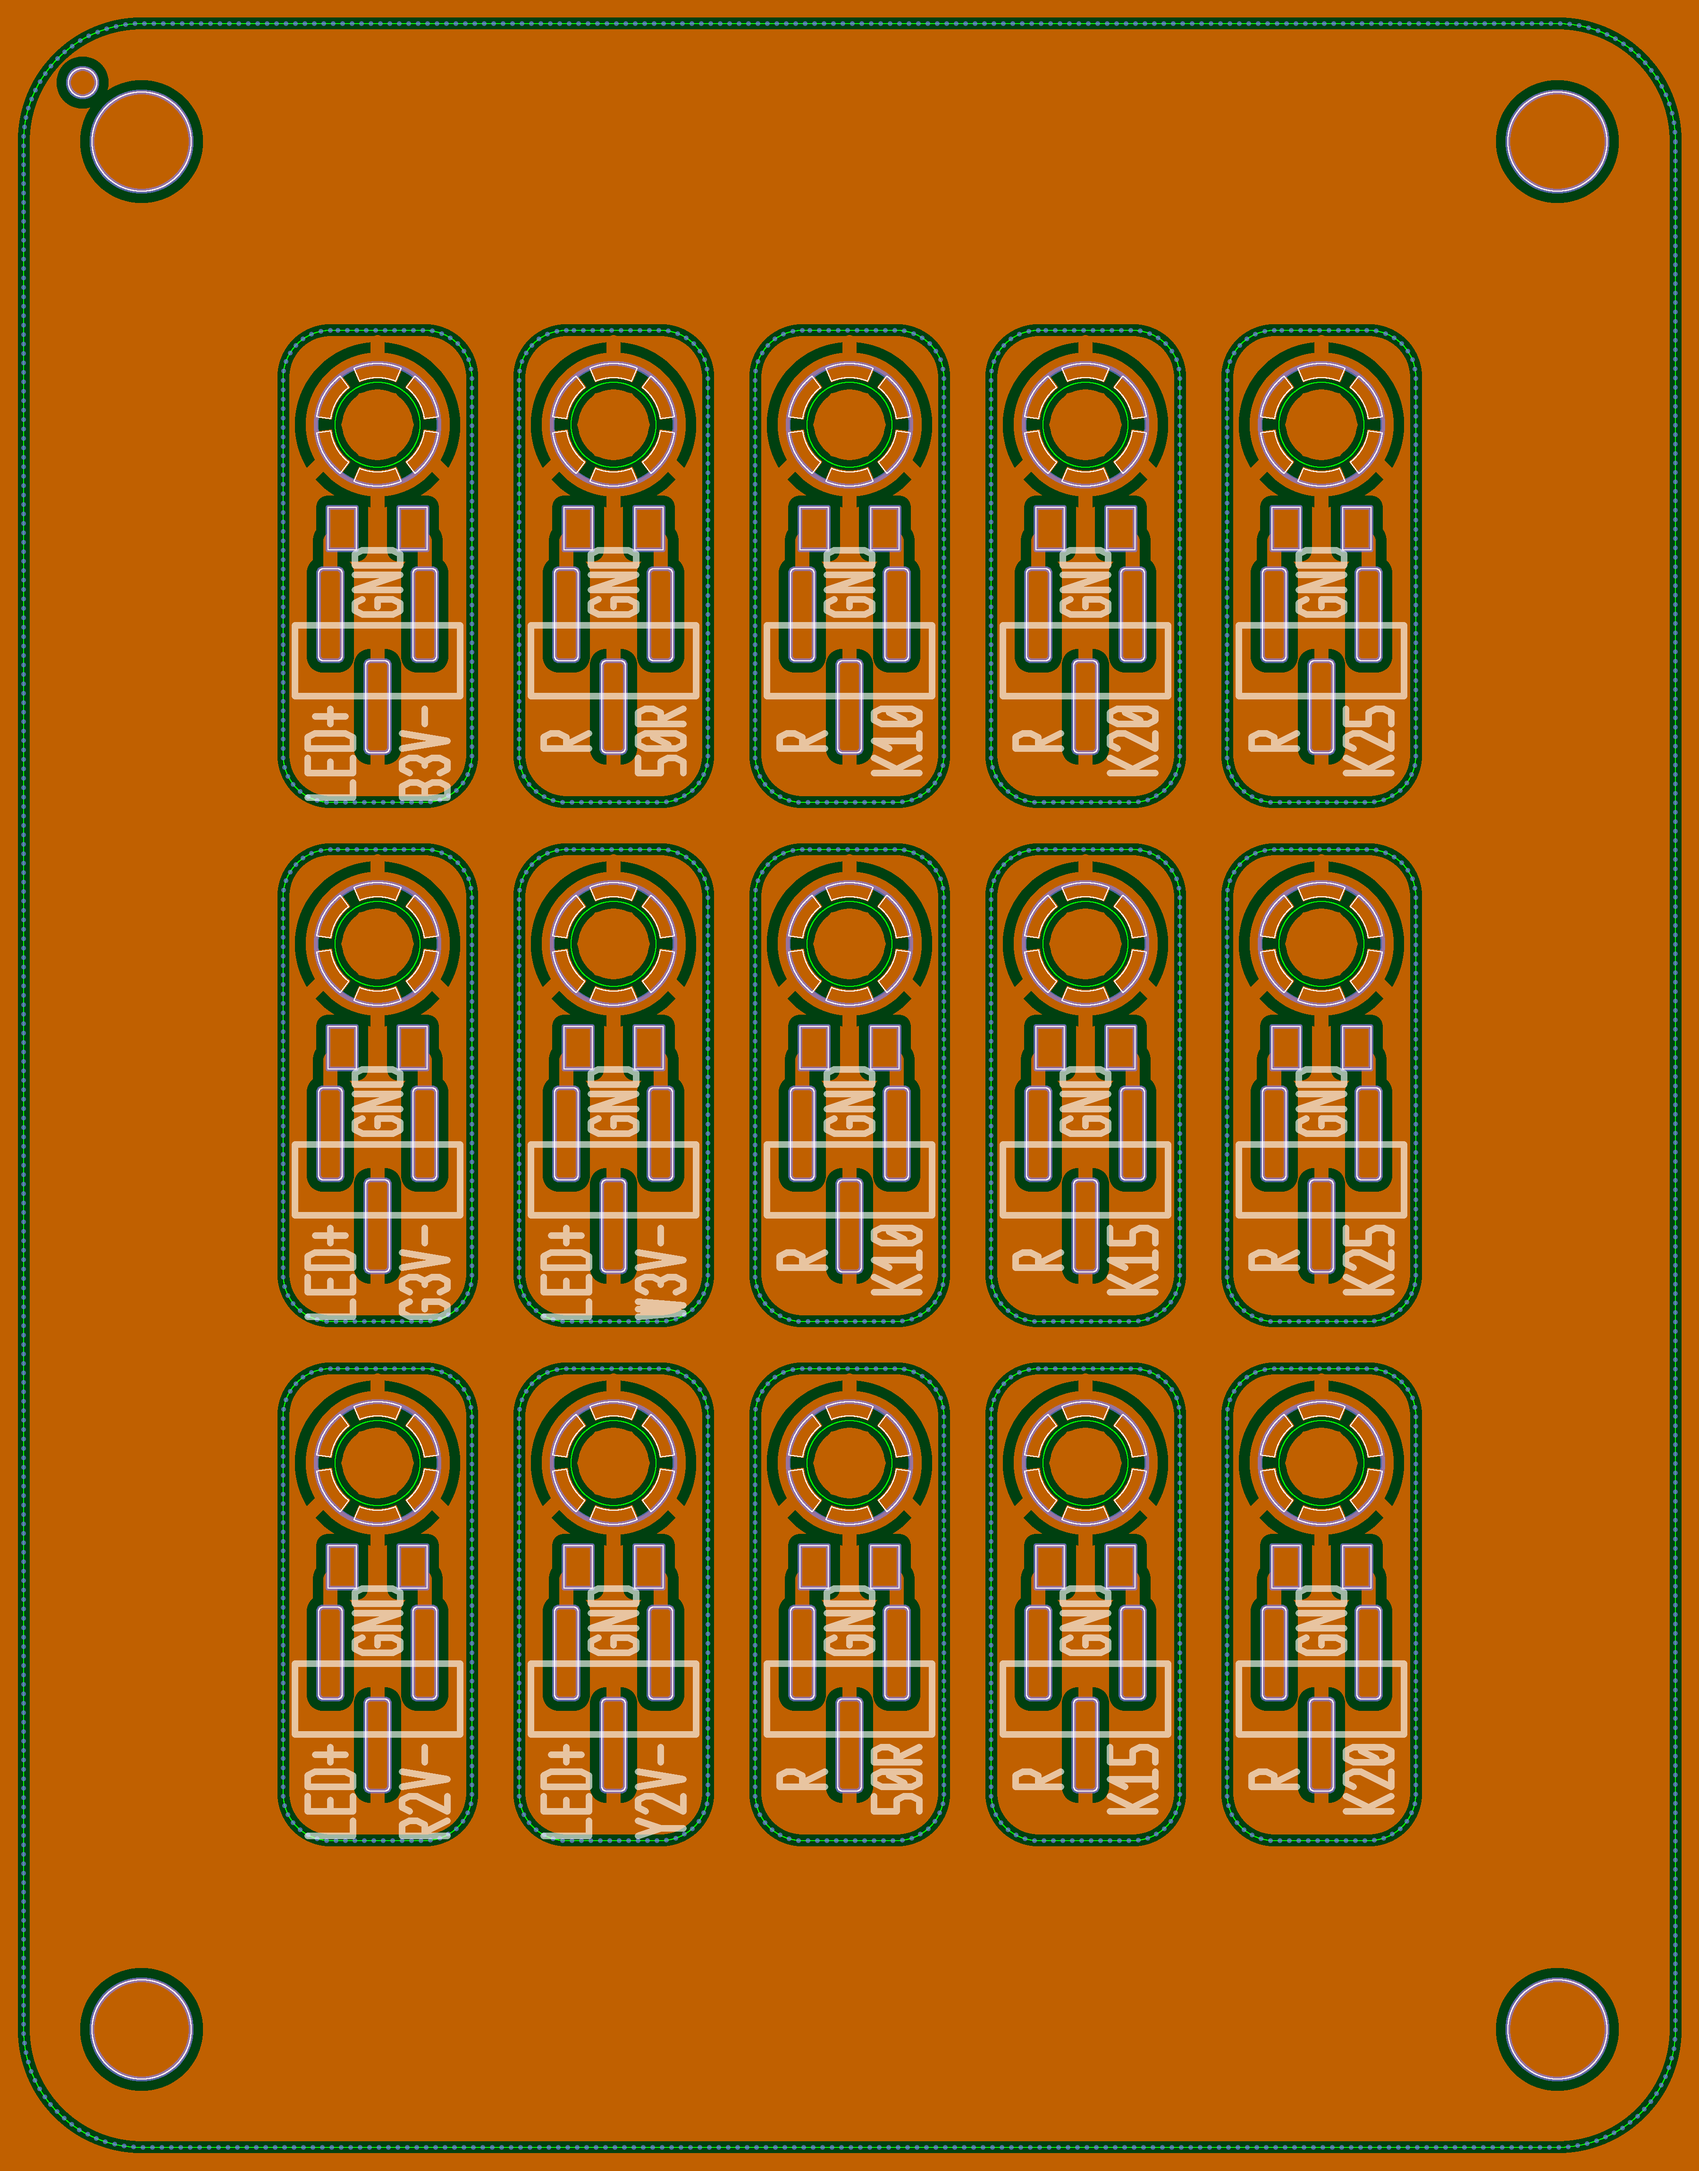
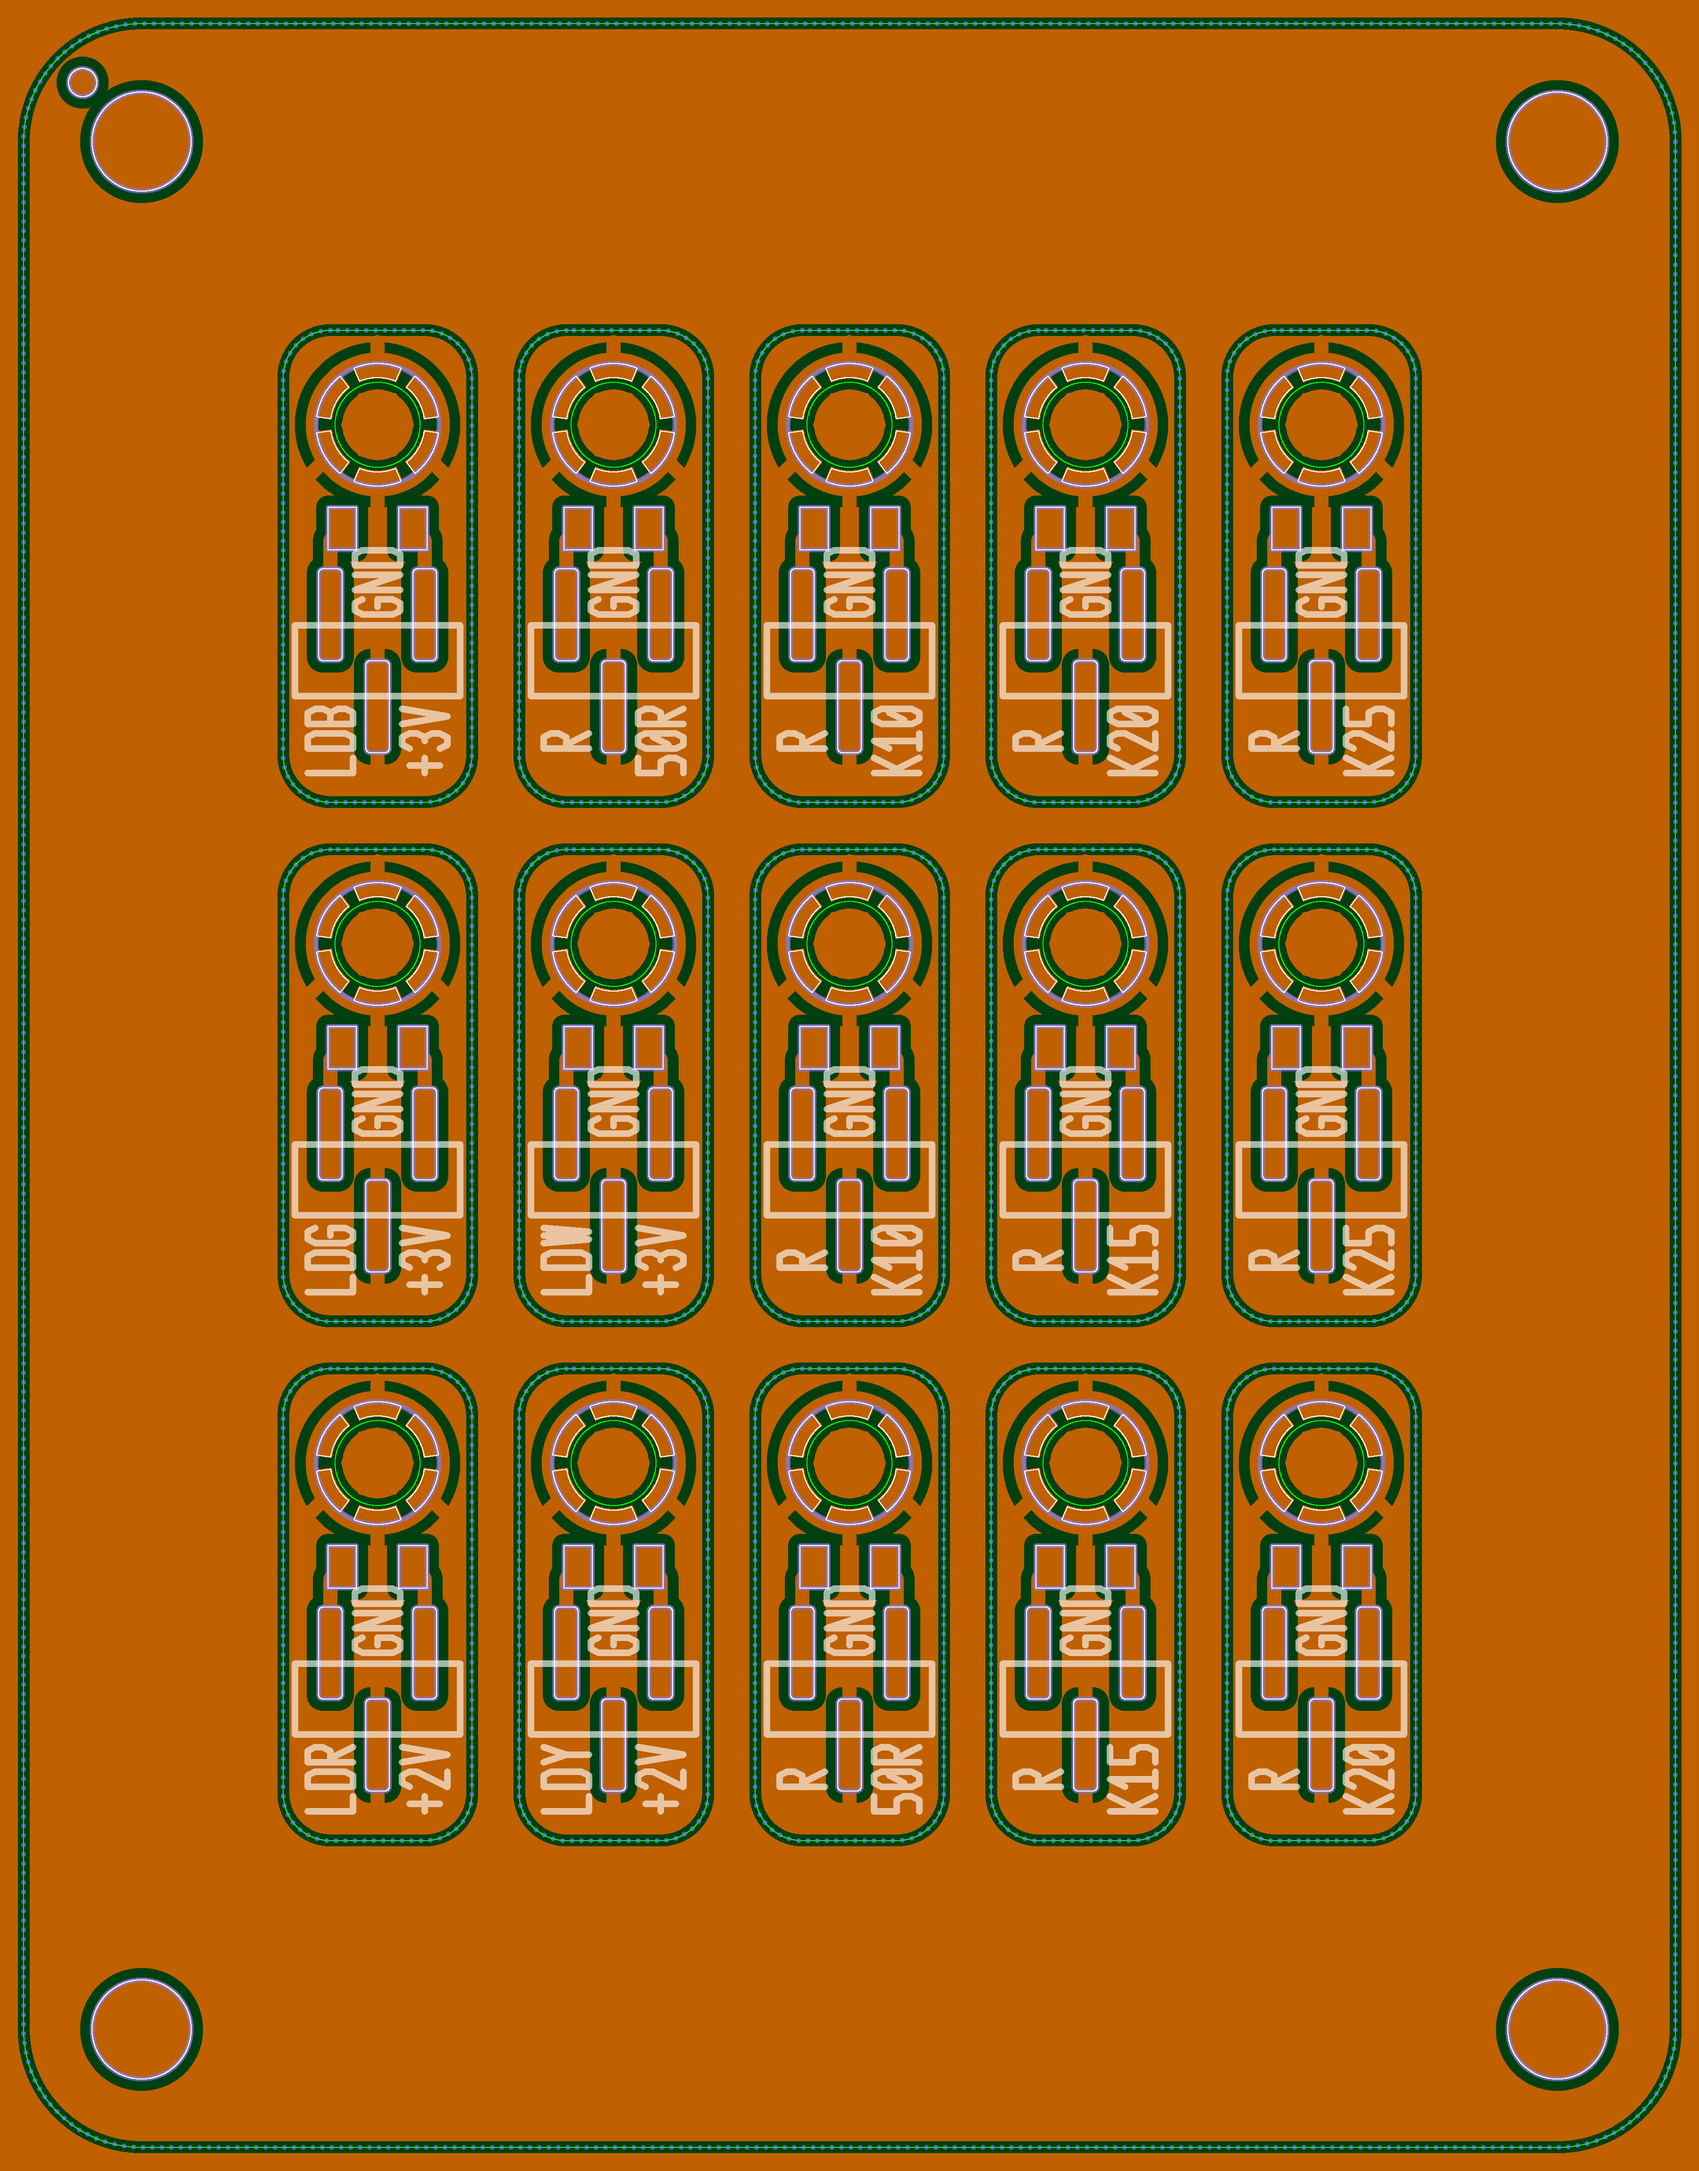
Minor fix for x2 boards

diff --git a/eda/pcbc/x2/x2_test.go b/eda/pcbc/x2/x2_test.go
@@ -15,11 +15,11 @@ func TestBoard(t *testing.T) {
 		Components: eda.Components{
 			pcbc.Board35x45,
 			eda.ComponentGrid(3, 11, 5,
-				X2("LED+", "R2V-"),
-				X2("LED+", "G3V-"),
-				X2("LED+", "B3V-"),
-				X2("LED+", "Y2V-"),
-				X2("LED+", "W3V-"),
+				X2("LDR", "+2V"),
+				X2("LDG", "+3V"),
+				X2("LDB", "+3V"),
+				X2("LDY", "+2V"),
+				X2("LDW", "+3V"),
 				X2("R ", "50R"),
 				X2("R ", "50R"),
 				X2("R ", "K10"),
